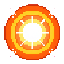
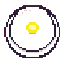
Royale PINBALL COBBLES: physical bumper hazard (#178)
Add scattered pinball bumpers to the cobbles stadium: solid round pegs
the ball bounces off elastically and that POP it away with extra speed,
pinball-style. Count and kick scale with the run difficulty (3 bumpers
easy / 4 med / 5 hard). Bumpers ignore player tokens and ghost phases
through. Includes a generated icon-bumper condition chip.

- 07-game-state: royBumpers + BUMPER_R state.
- 11-physics: royBumperArena / rollBumpers / royBumperStep (elastic
  bounce + speed pop) / drawBumpers (glowing cap with a hit flash);
  wired into stepPhysics.
- 12-draw: draw bumpers under the ball.
- 08-sound: rollBumpers in applyTactics + newMatch reset.
- 10-tournament: hazard:'bumper' on PINBALL COBBLES, blurb + BUMPERS chip.

Claude-Session: https://claude.ai/code/session_018F5EArhbDTNspRZAM7E7kB

diff --git a/src/game/11-physics.js b/src/game/11-physics.js
@@ -31,6 +31,13 @@
     function rollSerp(){ if(roySerpArena()){ if(roySerp.length!==royBushes.length){ roySerp=[]; for(var _s=0;_s<royBushes.length;_s++){ roySerp.push({bush:_s,strike:0,gx:0,gy:0,cd:0,armed:true}); } } } else if(roySerp.length){ roySerp=[]; } }
     function roySerpStep(){ if(!roySerp.length||!royBushes.length||!moving||scoring) return; if((typeof ghosting!=='undefined'&&ghosting)||(typeof TAC!=='undefined'&&TAC&&TAC.ghost&&typeof ghostUsed!=='undefined'&&!ghostUsed)) return; for(var _s=0;_s<roySerp.length;_s++){ var sp=roySerp[_s]; var b=royBushes[sp.bush]; if(!b) continue; var _dx=coin.x-b.x, _dy=coin.y-b.y, _d=Math.hypot(_dx,_dy); if(_d>SERP_STRIKE_R+COIN_R+8) sp.armed=true; /* ball left the bush — re-arm so it can strike again next time */ if(sp.cd>0||sp.armed===false) continue; /* just caught this ball: let it go, don't re-grab until it escapes */ var _spd=Math.hypot(coin.vx,coin.vy); if(_spd<0.8) continue; /* ignore a resting ball */ if(_d<SERP_STRIKE_R+COIN_R && _d>0.001){ sp.strike=1; sp.cd=45; sp.armed=false; sp.gx=coin.x; sp.gy=coin.y; coin.x=b.x+(Math.random()-0.5)*b.r*0.5; coin.y=b.y+(Math.random()-0.5)*b.r*0.5; coin.vx=0; coin.vy=0; b.rust=Math.min(1.6,1.2); try{ spawnSparks(b.x,b.y,'#6ab04a',12); }catch(e){} try{ if(!muted&&typeof sfxCurl==='function') sfxCurl(); }catch(e){} break; } } }
     function drawSerp(now){ if(!roySerp.length||!royBushes.length) return; var _NS=(typeof NS_LUNGE!=='undefined'&&NS_LUNGE.length)?NS_LUNGE:((typeof NS_SERP!=='undefined'&&NS_SERP.length)?NS_SERP:null); for(var _s=0;_s<roySerp.length;_s++){ var sp=roySerp[_s]; if(sp.strike>0){ sp.strike-=0.06; if(sp.strike<0) sp.strike=0; } if(sp.cd>0) sp.cd--; var b=royBushes[sp.bush]; if(!b) continue; var _d=(typeof coin!=='undefined'&&coin)?Math.hypot(coin.x-b.x,coin.y-b.y):999; var _mv=(typeof moving!=='undefined'&&moving&&typeof coin!=='undefined'&&coin), _spd2=_mv?Math.hypot(coin.vx,coin.vy):0, _appr=_mv&&_spd2>=0.8&&sp.armed!==false&&((coin.x-b.x)*coin.vx+(coin.y-b.y)*coin.vy)<0; var _al=(sp.cd>0&&sp.strike<0.02)||!_appr?0:Math.max(0,1-_d/SERP_ALERT_R); var _out=Math.max(_al,sp.strike); if(_out<0.02) continue; /* hidden inside the bush */ var _bx=(typeof coin!=='undefined'&&coin)?coin.x:b.x, _by=(typeof coin!=='undefined'&&coin)?coin.y:b.y; var _tx=(sp.strike>0.02)?sp.gx:_bx, _ty=(sp.strike>0.02)?sp.gy:_by; var _ang=Math.atan2(_ty-b.y,_tx-b.x); var _lun=Math.sin(Math.max(0,sp.strike)*Math.PI)*10; var _sc=0.78+_out*0.42; var _stg=(sp.strike>0.35)?3:(_out>0.62?2:(_out>0.3?1:0)); var _im=_NS?(_NS[_stg]||_NS[0]):null; ctx.save(); ctx.imageSmoothingEnabled=false; ctx.translate(b.x+Math.cos(_ang)*_lun, b.y+Math.sin(_ang)*_lun); ctx.rotate(_ang+Math.PI/2); if(_im&&_im.complete&&_im.naturalWidth){ var _w=17*_sc, _h=_w*(_im.naturalHeight/_im.naturalWidth); ctx.drawImage(_im, Math.round(-_w/2), Math.round(-_h*0.78), _w, _h); } else { ctx.fillStyle='#4a7a34'; ctx.beginPath(); ctx.arc(0,-6*_sc,6*_sc,0,6.283); ctx.fill(); } ctx.restore(); } }
+    // Pinball bumpers (cobbles): solid round pegs scattered on the pitch. The ball bounces off
+    // them elastically and gets a POP of extra speed, pinball-style. Count/kick scale with level.
+    // They ignore player tokens; ghost phases through.
+    function royBumperArena(){ return (typeof royaleArena!=='undefined'&&royaleArena&&royaleArena.hazard==='bumper'); }
+    function rollBumpers(){ if(royBumperArena()){ if(!royBumpers.length && !moving){ var _lvl=(typeof royaleLevel!=='undefined'?royaleLevel:'med'); var _n=(_lvl==='easy')?3:(_lvl==='med'?4:5); var _hues=['#e8443c','#f0a83c','#3ca6e8','#c04ce0','#5cd15c']; for(var _bb=0;_bb<_n;_bb++){ var bx,by,ok,tries=0,br=BUMPER_R+Math.random()*3; do{ ok=true; bx=WALL+26+Math.random()*(W-2*WALL-52); by=NET_DEPTH+GOAL_AREA_D+24+Math.random()*(H-2*(NET_DEPTH+GOAL_AREA_D)-48); for(var _bq=0;_bq<royBumpers.length;_bq++){ if(Math.hypot(bx-royBumpers[_bq].x,by-royBumpers[_bq].y)<(br+royBumpers[_bq].r)*2.0){ ok=false; break; } } if(coin&&Math.hypot(bx-coin.x,by-coin.y)<br+COIN_R+22) ok=false; if(ok&&typeof nails!=='undefined'&&nails){ for(var _bn=0;_bn<nails.length;_bn++){ if(Math.hypot(bx-nails[_bn].x,by-nails[_bn].y)<br+NAIL_R+16){ ok=false; break; } } } if(Math.abs(bx-W/2)<GOAL_W*0.5 && (by<NET_DEPTH+GOAL_AREA_D+30||by>H-NET_DEPTH-GOAL_AREA_D-30)) ok=false; tries++; }while(!ok&&tries<70); royBumpers.push({x:bx,y:by,r:br,flash:0,hue:_hues[_bb%_hues.length]}); } } } else if(royBumpers.length){ royBumpers=[]; } }
+    function royBumperStep(){ if(!royBumpers.length||!moving||scoring) return; if((typeof ghosting!=='undefined'&&ghosting)||(typeof TAC!=='undefined'&&TAC&&TAC.ghost&&typeof ghostUsed!=='undefined'&&!ghostUsed)) return; for(var _b=0;_b<royBumpers.length;_b++){ var p=royBumpers[_b]; var dx=coin.x-p.x, dy=coin.y-p.y, d=Math.hypot(dx,dy), R=p.r+COIN_R; if(d<R && d>0.001){ var nx=dx/d, ny=dy/d, vn=coin.vx*nx+coin.vy*ny; if(vn<0){ coin.vx-=2*vn*nx; coin.vy-=2*vn*ny; } coin.x=p.x+nx*R; coin.y=p.y+ny*R; var _lvl=(typeof royaleLevel!=='undefined'?royaleLevel:'med'); var _kick=(_lvl==='hard')?2.7:(_lvl==='med'?2.2:1.8); coin.vx+=nx*_kick; coin.vy+=ny*_kick; p.flash=1; try{ spawnSparks(p.x+nx*p.r,p.y+ny*p.r,'#ffe066',9); }catch(e){} try{ if(!muted){ if(typeof sfxWall==='function') sfxWall(); else if(typeof sfxCurl==='function') sfxCurl(); } }catch(e){} break; } } }
+    function drawBumpers(now){ if(!royBumpers.length) return; ctx.save(); for(var _b=0;_b<royBumpers.length;_b++){ var p=royBumpers[_b], r=p.r; if(p.flash>0){ p.flash-=0.08; if(p.flash<0)p.flash=0; } var _lit=p.flash; ctx.globalAlpha=0.28; ctx.fillStyle='#000'; ctx.beginPath(); ctx.ellipse(p.x,p.y+r*0.55,r*0.95,r*0.4,0,0,6.283); ctx.fill(); ctx.globalAlpha=1; ctx.fillStyle='#1c2028'; ctx.beginPath(); ctx.arc(p.x,p.y,r+1.5,0,6.283); ctx.fill(); ctx.fillStyle=p.hue; ctx.beginPath(); ctx.arc(p.x,p.y,r,0,6.283); ctx.fill(); ctx.globalAlpha=0.55; ctx.fillStyle='#ffffff'; ctx.beginPath(); ctx.arc(p.x-r*0.28,p.y-r*0.30,r*0.5,0,6.283); ctx.fill(); ctx.globalAlpha=1; ctx.strokeStyle='rgba(255,255,255,'+(0.55+_lit*0.45)+')'; ctx.lineWidth=2; ctx.beginPath(); ctx.arc(p.x,p.y,r*0.62,0,6.283); ctx.stroke(); ctx.fillStyle=_lit>0.02?'#ffffff':'#ffe9a8'; ctx.beginPath(); ctx.arc(p.x,p.y,r*0.34,0,6.283); ctx.fill(); if(_lit>0.02){ ctx.globalAlpha=_lit*0.8; ctx.strokeStyle='#fff6c0'; ctx.lineWidth=2+_lit*2; ctx.beginPath(); ctx.arc(p.x,p.y,r+(1-_lit)*11,0,6.283); ctx.stroke(); ctx.globalAlpha=1; } } ctx.restore(); }
     // Blizzard (hard ice): a crosswind that pulses calm->gust->calm; you time your flick for the calm window.
     function royBlizzard(){ return (typeof royaleArena!=='undefined'&&royaleArena&&royaleArena.floor==='ice'&&typeof royaleLevel!=='undefined'&&royaleLevel==='hard'); }
     // Foreground blizzard snow drawn ON TOP of the pitch so the sideways gust is clearly visible.
@@ -50,7 +57,7 @@
       // advance each sub-step by the CURRENT velocity, so a mid-frame wall/player
       // bounce immediately redirects the remaining sub-steps away instead of
       // re-hitting the wall (which used to drain sideways speed and glue the ball to it)
-      for(let i=0;i<subs&&moving;i++){ if(TAC.serpent&&!scoring){ var _ssp=Math.hypot(coin.vx,coin.vy); if(_ssp>0.5){ var _sang=serpentBase+serpentDir*SERPENT_SWING*Math.cos(serpentPhase); coin.vx=Math.cos(_sang)*_ssp; coin.vy=Math.sin(_sang)*_ssp; serpentPhase+=SERPENT_FREQ; } } if(TAC.wet&&!TAC.serpent&&!TAC.curve&&!scoring){ var _wwsp=Math.hypot(coin.vx,coin.vy); if(_wwsp>0.5){ var _wwang=wetBase+WET_WOBBLE*Math.cos(wetPhase); coin.vx=Math.cos(_wwang)*_wwsp; coin.vy=Math.sin(_wwang)*_wwsp; wetPhase+=WET_WFREQ; } } var _sInt=(TAC.serpent&&!scoring)?Math.atan2(coin.vy,coin.vx):0; coin.x+=coin.vx/subs; coin.y+=coin.vy/subs; var _wp=0,_wpa=0; if((TAC.wet||royGreasy())&&!scoring){ _wp=Math.hypot(coin.vx,coin.vy); _wpa=Math.atan2(coin.vy,coin.vx); } collideStep(); if(TAC.wet&&moving&&!scoring&&_wp>0.6){ var _na=Math.atan2(coin.vy,coin.vx), _dfa=Math.atan2(Math.sin(_na-_wpa),Math.cos(_na-_wpa)); if(Math.abs(_dfa)>0.25){ var _wspd=Math.hypot(coin.vx,coin.vy)||1, _woy=(current==='red')?(NET_DEPTH+COIN_R+1):(H-NET_DEPTH-COIN_R-1), _wgh=Math.atan2(_woy-coin.y,(W/2)-coin.x), _wch=Math.atan2(coin.vy,coin.vx), _wd=Math.atan2(Math.sin(_wgh-_wch),Math.cos(_wgh-_wch)), _wbi=_wch+_wd*0.55+(Math.random()-0.5)*1.4; coin.vx=Math.cos(_wbi)*_wspd; coin.vy=Math.sin(_wbi)*_wspd; if((current==='red'&&coin.vy>0.05)||(current==='blue'&&coin.vy<-0.05)){ coin.vy=-coin.vy; } wetBase=Math.atan2(coin.vy,coin.vx)-WET_WOBBLE*Math.cos(wetPhase); } } if(royGreasy()&&!TAC.wet&&moving&&!scoring&&_wp>0.6){ var _gna=Math.atan2(coin.vy,coin.vx), _gdf=Math.atan2(Math.sin(_gna-_wpa),Math.cos(_gna-_wpa)); if(Math.abs(_gdf)>0.25){ var _gsl=(Math.random()-0.5)*1.7,_gc=Math.cos(_gsl),_gs=Math.sin(_gsl),_gx=coin.vx*_gc-coin.vy*_gs,_gy=coin.vx*_gs+coin.vy*_gc; coin.vx=_gx; coin.vy=_gy; } } if(TAC.serpent&&!scoring&&moving){ var _sh=Math.atan2(coin.vy,coin.vx), _sdf=Math.atan2(Math.sin(_sh-_sInt),Math.cos(_sh-_sInt)); if(Math.abs(_sdf)>0.15){ serpentDir=-serpentDir; serpentBase=_sh-serpentDir*SERPENT_SWING*Math.cos(serpentPhase); } } if(!scoring) royPortalStep(); if(!scoring) royPuddleStep(); if(!scoring) royBushStep(); if(!scoring) royMudStep(); if(!scoring) roySerpStep(); if(!scoring){ try{ ecoStep(); }catch(e){} } if(!scoring&&trapHit()) break; }
+      for(let i=0;i<subs&&moving;i++){ if(TAC.serpent&&!scoring){ var _ssp=Math.hypot(coin.vx,coin.vy); if(_ssp>0.5){ var _sang=serpentBase+serpentDir*SERPENT_SWING*Math.cos(serpentPhase); coin.vx=Math.cos(_sang)*_ssp; coin.vy=Math.sin(_sang)*_ssp; serpentPhase+=SERPENT_FREQ; } } if(TAC.wet&&!TAC.serpent&&!TAC.curve&&!scoring){ var _wwsp=Math.hypot(coin.vx,coin.vy); if(_wwsp>0.5){ var _wwang=wetBase+WET_WOBBLE*Math.cos(wetPhase); coin.vx=Math.cos(_wwang)*_wwsp; coin.vy=Math.sin(_wwang)*_wwsp; wetPhase+=WET_WFREQ; } } var _sInt=(TAC.serpent&&!scoring)?Math.atan2(coin.vy,coin.vx):0; coin.x+=coin.vx/subs; coin.y+=coin.vy/subs; var _wp=0,_wpa=0; if((TAC.wet||royGreasy())&&!scoring){ _wp=Math.hypot(coin.vx,coin.vy); _wpa=Math.atan2(coin.vy,coin.vx); } collideStep(); if(TAC.wet&&moving&&!scoring&&_wp>0.6){ var _na=Math.atan2(coin.vy,coin.vx), _dfa=Math.atan2(Math.sin(_na-_wpa),Math.cos(_na-_wpa)); if(Math.abs(_dfa)>0.25){ var _wspd=Math.hypot(coin.vx,coin.vy)||1, _woy=(current==='red')?(NET_DEPTH+COIN_R+1):(H-NET_DEPTH-COIN_R-1), _wgh=Math.atan2(_woy-coin.y,(W/2)-coin.x), _wch=Math.atan2(coin.vy,coin.vx), _wd=Math.atan2(Math.sin(_wgh-_wch),Math.cos(_wgh-_wch)), _wbi=_wch+_wd*0.55+(Math.random()-0.5)*1.4; coin.vx=Math.cos(_wbi)*_wspd; coin.vy=Math.sin(_wbi)*_wspd; if((current==='red'&&coin.vy>0.05)||(current==='blue'&&coin.vy<-0.05)){ coin.vy=-coin.vy; } wetBase=Math.atan2(coin.vy,coin.vx)-WET_WOBBLE*Math.cos(wetPhase); } } if(royGreasy()&&!TAC.wet&&moving&&!scoring&&_wp>0.6){ var _gna=Math.atan2(coin.vy,coin.vx), _gdf=Math.atan2(Math.sin(_gna-_wpa),Math.cos(_gna-_wpa)); if(Math.abs(_gdf)>0.25){ var _gsl=(Math.random()-0.5)*1.7,_gc=Math.cos(_gsl),_gs=Math.sin(_gsl),_gx=coin.vx*_gc-coin.vy*_gs,_gy=coin.vx*_gs+coin.vy*_gc; coin.vx=_gx; coin.vy=_gy; } } if(TAC.serpent&&!scoring&&moving){ var _sh=Math.atan2(coin.vy,coin.vx), _sdf=Math.atan2(Math.sin(_sh-_sInt),Math.cos(_sh-_sInt)); if(Math.abs(_sdf)>0.15){ serpentDir=-serpentDir; serpentBase=_sh-serpentDir*SERPENT_SWING*Math.cos(serpentPhase); } } if(!scoring) royPortalStep(); if(!scoring) royPuddleStep(); if(!scoring) royBushStep(); if(!scoring) royMudStep(); if(!scoring) roySerpStep(); if(!scoring) royBumperStep(); if(!scoring){ try{ ecoStep(); }catch(e){} } if(!scoring&&trapHit()) break; }
       if(rportCD>0) rportCD--; if(royaleArena && royaleArena.cust==='wind' && moving && !scoring){ royWindT--; if(royWindT<=0){ royWindAng=Math.random()*6.2832; royWindMag=(Math.random()<0.35)?0:(0.14+Math.random()*0.22); royWindT=30+Math.floor(Math.random()*55); } if(royWindMag>0){ coin.vx+=Math.cos(royWindAng)*royWindMag; coin.vy+=Math.sin(royWindAng)*royWindMag; } } if(royBlizzard() && moving && !scoring){ var _gst=royGust()*ROY_GUST_MAX; coin.vx+=Math.cos(royGustDir)*_gst; coin.vy+=Math.sin(royGustDir)*_gst; } const f=scoring?NET_FRICTION:(FRICTION+TAC.glide+royFloorFric()); coin.vx*=f; coin.vy*=f; if(TAC.backspin&&moving&&!scoring){ if(!backspinPhase){ coin.vx*=0.92; coin.vy*=0.92; var _bfv=coin.vx*backspinFx+coin.vy*backspinFy; if(_bfv<0.4){ coin.vx=-backspinFx*3.0; coin.vy=-backspinFy*3.0; backspinPhase=1; if(TAC.serpent){ serpentBase+=Math.PI; serpentDir=-serpentDir; } try{ if(!muted) sfxCurl(); }catch(e){} } } else { coin.vx*=0.90; coin.vy*=0.90; } } if(bumpPending){ coin.vx*=1.5; coin.vy*=1.5; bumpPending=false; } var _tv=Math.hypot(coin.vx,coin.vy); if(_tv>26){ var _tk=26/_tv; coin.vx*=_tk; coin.vy*=_tk; } if(moving&&!scoring){ for(var _mk=0;_mk<2;_mk++){ var _mt=_mk?'blue':'red'; if(current===_mt) continue; if((sideAb[_mt]||[]).indexOf('magnet')<0) continue; var _mg=null; for(var _mi=0;_mi<nails.length;_mi++){ if(nails[_mi].team===_mt&&nails[_mi].goalie){ _mg=nails[_mi]; break; } } if(!_mg) continue; var _mdx=_mg.x-coin.x, _mdy=_mg.y-coin.y, _md=Math.hypot(_mdx,_mdy)||1, _mR=GOAL_W*0.95; if(_md<_mR && Math.hypot(coin.vx,coin.vy)>0.15){ var _f=1-_md/_mR; coin.vx+=(_mdx/_md)*(0.05+0.11*_f); coin.vy+=(_mdy/_md)*(0.05+0.11*_f); var _drag=0.985-0.06*_f; coin.vx*=_drag; coin.vy*=_drag; } } }
         if(TAC.boomerang&&moving&&!scoring){ var _bmid=H/2, _bfwd=(current==='red')?(coin.y<_bmid-6):(coin.y>_bmid+6), _bback=(current==='red')?(coin.y>_bmid+6):(coin.y<_bmid-6); if(_bfwd) _boomFwd=true; if(_boomFwd&&!_boomUsed&&_bback){ var _bsp=Math.hypot(coin.vx,coin.vy); if(_bsp>1.1){ var _bgy=(current==='red')?(NET_DEPTH+2):(H-NET_DEPTH-2), _bdx=W/2-coin.x, _bdy=_bgy-coin.y, _bd=Math.hypot(_bdx,_bdy)||1, _bs=Math.max(_bsp,4.4); coin.vx=(_bdx/_bd)*_bs; coin.vy=(_bdy/_bd)*_bs; _boomUsed=true; try{sfxCurl();}catch(e){} try{ spawnSparks(coin.x,coin.y,current,12); }catch(e){} try{ setStatus('BOOMERANG!'); }catch(e){} try{ abilitySlotPop(current,'boomerang',1.5); }catch(e){} try{ syncSlots(); }catch(e){} } } } if(TAC.guided&&moving&&!scoring&&steerHold!=null&&steerBudget>0){ var _sd=steerHold-coin.x; coin.vx+=Math.max(-0.18,Math.min(0.18,_sd*0.02)); steerBudget--; }
       if(scoring){

diff --git a/src/game/10-tournament.js b/src/game/10-tournament.js
@@ -14,9 +14,10 @@
       aiEnabled={red:false,blue:true}; mode='tournament'; winTarget=3;
       showBracket(); try{ tourCoinIntro(); }catch(e){}
     }
-    var ROYALE=null, royaleArena=null, royaleLevel='med'; var royWindT=0, royWindAng=0, royWindMag=0; var rtraps=[]; var rportCD=0; var ROYALE_ARENAS=[{name:'FROZEN ARENA',pitch:'ice',ab:[],floor:'ice',d:1,blurb:'Black ice - the whole rink is slippery, so the ball skates and is hard to settle.'},{name:'THE THICKET',pitch:'savanna',ab:[],hazard:'bush',d:2,blurb:'Scattered bushes grab the ball - roll through one and it slows hard, then kicks out on an unpredictable line.'},{name:'PINBALL COBBLES',pitch:'cobble',ab:['cannon','bumper','ricochet'],d:2,blurb:'Cannon power, bumper players, walls speed you up.'},{name:'SANDSTORM',pitch:'clay',ab:['glide'],d:3,cust:'wind',blurb:'Loose clay - wind gusts shove the ball around.'},{name:'NEON GRID',pitch:'neon',ab:[],d:3,cust:'portals',blurb:'5 portals (4 corners + centre) warp the ball to a random exit.'},{name:'BLACKOUT ALLEY',pitch:'street',ab:['fog','drunk'],d:4,blurb:'No aim guide and every shot wobbles off line.'},{name:'WEB WAREHOUSE',pitch:'wood',ab:[],d:4,cust:'traps',blurb:'Three spider webs guard each side - first ball to touch one is stopped dead.'},{name:'THE FORTRESS',pitch:'stone',ab:['anchor'],d:5,cust:'fortress',blurb:'Three walls barricade each goal and a heavy anchor guards the gap.'},{name:'THE FINAL',pitch:'grass',ab:[],d:5,blurb:'No gimmicks. Pure flick-soccer skill.'}]; function royaleRamp(i){ return i<3?'easy':(i<6?'med':'hard'); } function startRoyale(pi){ var pool=[]; for(var i=0;i<PRESETS.length;i++){ if(i!==pi && PRESETS[i].cat==='country') pool.push(i); } shuffle(pool); var opps=[]; for(var a=0;a<ROYALE_ARENAS.length;a++){ opps.push(pool.length?pool[a%pool.length]:pi); } ROYALE={i:0,player:pi,opps:opps}; mode='royale'; showRoyaleMap(); } function startRoyaleArena(){ if(!ROYALE) return; var ar=ROYALE_ARENAS[ROYALE.i]; royaleArena=ar; aiLevel=royaleRamp(ROYALE.i); teamKits.red=PRESETS[ROYALE.player]; teamKits.blue=PRESETS[ROYALE.opps[ROYALE.i]]; boardKey=ar.pitch; buildBoard(); buildCrowd(); mode='royale'; winTarget=3; matchLen=0; matchMs=0; timeUp=false; timerRunning=false; aiEnabled={red:false,blue:true}; pendingAb=(function(){ var _n=(royaleLevel==='easy')?1:((royaleLevel==='med')?2:3); var _a=ar.ab.slice(0,_n); return {red:_a.slice(),blue:_a.slice()}; })(); pre.style.display='none'; newMatch(); setStatus('STADIUM '+(ROYALE.i+1)+' - DRAG PLAYERS, THEN START'); try{ showVsIntro(); }catch(e){} } function royaleMatchEnd(){ if(!ROYALE) return; if(winner!=='red'){ showRoyaleResult(false); return; } ROYALE.i++; if(ROYALE.i>=ROYALE_ARENAS.length){ try{ spAchUnlock('royale'); if(royaleLevel==='hard') spAchUnlock('royalehard'); try{ var _rd=spAchGet(); var _rl=royaleLevel||'med'; if(_rd.royDiffs.indexOf(_rl)<0){ _rd.royDiffs.push(_rl); spAchSave(_rd); } if(_rd.royDiffs.indexOf('easy')>=0&&_rd.royDiffs.indexOf('med')>=0&&_rd.royDiffs.indexOf('hard')>=0) spAchUnlock('royaleall'); }catch(e){} }catch(e){} showRoyaleResult(true); return; } showRoyaleMap(true); } function royaleIntro(){ try{ var stage=el('ns_stage'); if(!stage||!royaleArena||!ROYALE) return; var old=el('ns_royint'); if(old) old.remove(); var ar=royaleArena; var ov=mk('div','position:absolute;left:0;top:0;right:0;bottom:0;z-index:58;display:flex;flex-direction:column;align-items:center;justify-content:center;background:rgba(6,5,12,0.82);text-align:center;padding:16px;box-sizing:border-box;'); ov.id='ns_royint'; ov.appendChild(mk('div',FS(8,'#9a8fb0')+'letter-spacing:2px;margin-bottom:6px;','STADIUM '+(ROYALE.i+1)+' / '+ROYALE_ARENAS.length)); ov.appendChild(mk('div',FS(15,'#c6e84a')+'letter-spacing:1px;text-shadow:0 3px 0 #1c1330;margin-bottom:8px;',ar.name)); ov.appendChild(mk('div',FS(8,'#f4e9c8')+'line-height:1.7;max-width:280px;',ar.blurb)); stage.appendChild(ov); try{ if(typeof haptic==='function') haptic(20); }catch(e){} setTimeout(function(){ ov.style.transition='opacity 0.4s'; ov.style.opacity='0'; setTimeout(function(){ if(ov.parentNode) ov.parentNode.removeChild(ov); },420); }, 2100); }catch(e){} } function showRoyaleResult(champ){ royaleArena=null; try{ if(champ){ setTimeout(function(){ try{sfxChampion();}catch(e){} },200); } else { sfxWhistle(); } }catch(e){} var reached=ROYALE?ROYALE.i:0; pre.innerHTML=''; pre.style.display='block'; pre.scrollTop=0; var pad=mk('div','padding:26px 16px;min-height:100%;box-sizing:border-box;display:flex;flex-direction:column;align-items:center;justify-content:center;gap:12px;text-align:center;'); pad.appendChild(mk('div','font-size:52px;line-height:1;', champ?'🏆':'💥')); pad.appendChild(mk('div',FS(16,champ?'#ffd84a':'#e05a4a')+'letter-spacing:1px;text-shadow:0 3px 0 #1c1330;', champ?'ROYALE CHAMPION':'ELIMINATED')); pad.appendChild(mk('div',FS(8,'#cdeacb')+'line-height:1.7;max-width:280px;', champ?('You conquered all '+ROYALE_ARENAS.length+' stadiums!'):('You fell at '+ROYALE_ARENAS[Math.min(reached,ROYALE_ARENAS.length-1)].name+' (stadium '+(Math.min(reached,ROYALE_ARENAS.length-1)+1)+' of '+ROYALE_ARENAS.length+').'))); var again=mk('button','width:100%;max-width:260px;'+FS(11,'#0b1a0e')+'background:#c6e84a;border:2px solid #e6ff7a;padding:12px;cursor:pointer;', champ?'PLAY AGAIN':'RETRY ROYALE'); again.onclick=function(){ ROYALE=null; try{spClearRun('royale');}catch(e){} mode='royale'; buildPre(); }; pad.appendChild(again); var home=mk('button','width:100%;max-width:260px;'+FS(9,'#8a7ea0')+'background:#14101e;border:2px solid #3a3050;padding:10px;cursor:pointer;','MENU'); home.onclick=function(){ ROYALE=null; try{spClearRun('royale');}catch(e){} mode='exhibition'; buildPre(); }; pad.appendChild(home); pre.appendChild(pad); } function royFlag(p,w,h){ var wrap=mk('div','flex:0 0 auto;line-height:0;border:1px solid rgba(0,0,0,0.5);border-radius:2px;overflow:hidden;'); var cv=document.createElement('canvas'); cv.width=w*2; cv.height=h*2; cv.style.cssText='width:'+w+'px;height:'+h+'px;display:block;image-rendering:pixelated;'; try{ var g=cv.getContext('2d'); g.scale(2,2); g.imageSmoothingEnabled=false; if(p&&p.kit) paintPattern(g,0,0,w,h,p.kit); }catch(e){} wrap.appendChild(cv); return wrap; } function royMapNode(ar,k){ var done=k<ROYALE.i, cur=k===ROYALE.i; var row=mk('div','display:flex;align-items:center;gap:8px;padding:6px 8px;margin:3px 0;border-radius:8px;border:2px solid '+(cur?'#c6e84a':(done?'#3a5a2a':'#2a2438'))+';background:'+(cur?'rgba(198,232,74,0.12)':(done?'rgba(60,110,50,0.10)':'#14101e'))+';'+((!cur&&!done)?'opacity:0.55;':'')); if(cur) row.id='ns_roycur'; var num=mk('div',FS(9,cur?'#0b0910':'#c9bce0')+'flex:0 0 auto;width:22px;height:22px;border-radius:50%;display:flex;align-items:center;justify-content:center;background:'+(cur?'#c6e84a':(done?'#3a5a2a':'#241a2e'))+';', done?'✓':String(k+1)); row.appendChild(num); var mid=mk('div','flex:1 1 auto;text-align:left;min-width:0;'); mid.appendChild(mk('div',FS(7,cur?'#f4e9c8':'#c9bce0')+'letter-spacing:0.4px;line-height:1.4;',ar.name+'  '+Array((ar.d||1)+1).join('◆'))); var opp=PRESETS[ROYALE.opps[k]]; var oppRow=mk('div','display:flex;align-items:center;gap:5px;margin-top:3px;'); oppRow.appendChild(royFlag(opp,18,12)); oppRow.appendChild(mk('span',FS(6,'#9a8fb0'),'vs '+(opp?opp.abbr:'?'))); mid.appendChild(oppRow); row.appendChild(mid); if(cur){ var you=mk('div','display:flex;flex-direction:column;align-items:center;gap:2px;flex:0 0 auto;'); you.appendChild(royFlag(PRESETS[ROYALE.player],22,15)); you.appendChild(mk('div',FS(5,'#c6e84a'),'YOU')); row.appendChild(you); } else if(done){ row.appendChild(mk('div',FS(7,'#7fd07f')+'flex:0 0 auto;','WON')); } return row; } function drawRoyMap(g,cw,ch,flagPos,zoom,camx,camy){ var NODES=[[0.19,0.84],[0.79,0.83],[0.22,0.66],[0.20,0.52],[0.50,0.49],[0.74,0.44],[0.26,0.32],[0.75,0.26],[0.47,0.15]]; g.clearRect(0,0,cw,ch); g.save(); if(zoom&&zoom>1.001){ var _hw=(cw/2)/zoom, _hh=(ch/2)/zoom; if(camx<_hw)camx=_hw; if(camx>cw-_hw)camx=cw-_hw; if(camy<_hh)camy=_hh; if(camy>ch-_hh)camy=ch-_hh; g.translate(cw/2,ch/2); g.scale(zoom,zoom); g.translate(-camx,-camy); } if(NS_ROYMAP&&NS_ROYMAP.complete&&NS_ROYMAP.naturalWidth){ g.drawImage(NS_ROYMAP,0,0,cw,ch); } else { g.fillStyle='#3a5a2e'; g.fillRect(0,0,cw,ch); } g.fillStyle='rgba(6,5,12,0.12)'; g.fillRect(0,0,cw,ch); function P(k){ return {x:NODES[k][0]*cw, y:NODES[k][1]*ch}; } (function(){ g.save(); g.setLineDash([5,5]); g.lineWidth=3; g.lineCap='round'; g.strokeStyle='rgba(255,238,196,0.9)'; g.beginPath(); for(var _r=0;_r<NODES.length;_r++){ var _p=P(_r); if(_r===0) g.moveTo(_p.x,_p.y); else g.lineTo(_p.x,_p.y); } g.stroke(); g.setLineDash([]); g.lineWidth=1; g.strokeStyle='rgba(90,60,20,0.5)'; g.stroke(); g.restore(); })(); var pk=PRESETS[ROYALE.player], opp=PRESETS[ROYALE.opps[ROYALE.i]]; for(var k=0;k<NODES.length;k++){ var p=P(k), done=k<ROYALE.i, cur=k===ROYALE.i, R=(cur?11:9); g.save(); g.globalAlpha=0.4; g.fillStyle='#000'; g.beginPath(); g.arc(p.x,p.y+1.5,R+1,0,6.283); g.fill(); g.globalAlpha=1; g.fillStyle=done?'#3a8a3a':(cur?'#c6e84a':'#241a2e'); g.beginPath(); g.arc(p.x,p.y,R,0,6.283); g.fill(); g.lineWidth=2; g.strokeStyle=cur?'#ffffff':(done?'#bfeeb0':'#5a4e72'); g.beginPath(); g.arc(p.x,p.y,R,0,6.283); g.stroke(); g.textAlign='center'; g.textBaseline='middle'; g.fillStyle=(cur||done)?'#0b0910':'#d8cfe8'; g.font="8px 'Press Start 2P', monospace"; g.fillText(done?'✓':String(k+1), p.x, p.y+0.5); try{ var _op=PRESETS[ROYALE.opps[k]]; if(_op&&_op.kit&&typeof paintPattern==='function'){ var _fw=14,_fh=9,_fx=p.x-_fw/2,_fy=p.y-R-_fh-3; g.globalAlpha=1; g.fillStyle='rgba(0,0,0,0.55)'; g.fillRect(_fx-1,_fy-1,_fw+2,_fh+2); paintPattern(g,_fx,_fy,_fw,_fh,_op.kit); g.lineWidth=0.7; g.strokeStyle='rgba(0,0,0,0.7)'; g.strokeRect(_fx,_fy,_fw,_fh); } }catch(e){} g.restore(); } var lo=Math.max(0,Math.floor(flagPos)), hi=Math.min(NODES.length-1,lo+1), fr=flagPos-lo, a=P(lo), b=P(hi), fx=a.x+(b.x-a.x)*fr, fy=a.y+(b.y-a.y)*fr; var _cy=fy-17, _R=10, _ir=7; function _cn(cx,pr){ g.save(); g.globalAlpha=0.35; g.fillStyle='#000'; g.beginPath(); g.arc(cx,_cy+2,_R+1,0,6.283); g.fill(); g.globalAlpha=1; g.fillStyle=COLORS.coin; g.beginPath(); g.arc(cx,_cy,_R,0,6.283); g.fill(); try{ g.save(); g.beginPath(); g.arc(cx,_cy,_ir,0,6.283); g.clip(); if(pr&&pr.kit) paintPattern(g,cx-_ir,_cy-_ir,_ir*2,_ir*2,pr.kit); g.restore(); }catch(e){} g.lineWidth=2; g.strokeStyle=COLORS.coinEdge; g.beginPath(); g.arc(cx,_cy,_R-1,0,6.283); g.stroke(); g.lineWidth=1; g.strokeStyle='rgba(0,0,0,0.45)'; g.beginPath(); g.arc(cx,_cy,_ir,0,6.283); g.stroke(); g.restore(); } _cn(fx-11,pk); _cn(fx+11,opp); g.save(); g.font='bold 7px sans-serif'; g.textAlign='center'; g.textBaseline='middle'; g.lineWidth=2.5; g.strokeStyle='#1a1330'; g.strokeText('VS',fx,_cy); g.fillStyle='#ffe066'; g.fillText('VS',fx,_cy); g.restore(); g.restore(); } function royArenaConds(ar){ if(!ar) return []; var G='assets/generated/', lvl=(typeof royaleLevel!=='undefined'?royaleLevel:'med'), c=[];
+    var ROYALE=null, royaleArena=null, royaleLevel='med'; var royWindT=0, royWindAng=0, royWindMag=0; var rtraps=[]; var rportCD=0; var ROYALE_ARENAS=[{name:'FROZEN ARENA',pitch:'ice',ab:[],floor:'ice',d:1,blurb:'Black ice - the whole rink is slippery, so the ball skates and is hard to settle.'},{name:'THE THICKET',pitch:'savanna',ab:[],hazard:'bush',d:2,blurb:'Scattered bushes grab the ball - roll through one and it slows hard, then kicks out on an unpredictable line.'},{name:'PINBALL COBBLES',pitch:'cobble',ab:['cannon','bumper','ricochet'],hazard:'bumper',d:2,blurb:'A pinball table - bumpers scattered on the pitch ping the ball off with extra speed.'},{name:'SANDSTORM',pitch:'clay',ab:['glide'],d:3,cust:'wind',blurb:'Loose clay - wind gusts shove the ball around.'},{name:'NEON GRID',pitch:'neon',ab:[],d:3,cust:'portals',blurb:'5 portals (4 corners + centre) warp the ball to a random exit.'},{name:'BLACKOUT ALLEY',pitch:'street',ab:['fog','drunk'],d:4,blurb:'No aim guide and every shot wobbles off line.'},{name:'WEB WAREHOUSE',pitch:'wood',ab:[],d:4,cust:'traps',blurb:'Three spider webs guard each side - first ball to touch one is stopped dead.'},{name:'THE FORTRESS',pitch:'stone',ab:['anchor'],d:5,cust:'fortress',blurb:'Three walls barricade each goal and a heavy anchor guards the gap.'},{name:'THE FINAL',pitch:'grass',ab:[],d:5,blurb:'No gimmicks. Pure flick-soccer skill.'}]; function royaleRamp(i){ return i<3?'easy':(i<6?'med':'hard'); } function startRoyale(pi){ var pool=[]; for(var i=0;i<PRESETS.length;i++){ if(i!==pi && PRESETS[i].cat==='country') pool.push(i); } shuffle(pool); var opps=[]; for(var a=0;a<ROYALE_ARENAS.length;a++){ opps.push(pool.length?pool[a%pool.length]:pi); } ROYALE={i:0,player:pi,opps:opps}; mode='royale'; showRoyaleMap(); } function startRoyaleArena(){ if(!ROYALE) return; var ar=ROYALE_ARENAS[ROYALE.i]; royaleArena=ar; aiLevel=royaleRamp(ROYALE.i); teamKits.red=PRESETS[ROYALE.player]; teamKits.blue=PRESETS[ROYALE.opps[ROYALE.i]]; boardKey=ar.pitch; buildBoard(); buildCrowd(); mode='royale'; winTarget=3; matchLen=0; matchMs=0; timeUp=false; timerRunning=false; aiEnabled={red:false,blue:true}; pendingAb=(function(){ var _n=(royaleLevel==='easy')?1:((royaleLevel==='med')?2:3); var _a=ar.ab.slice(0,_n); return {red:_a.slice(),blue:_a.slice()}; })(); pre.style.display='none'; newMatch(); setStatus('STADIUM '+(ROYALE.i+1)+' - DRAG PLAYERS, THEN START'); try{ showVsIntro(); }catch(e){} } function royaleMatchEnd(){ if(!ROYALE) return; if(winner!=='red'){ showRoyaleResult(false); return; } ROYALE.i++; if(ROYALE.i>=ROYALE_ARENAS.length){ try{ spAchUnlock('royale'); if(royaleLevel==='hard') spAchUnlock('royalehard'); try{ var _rd=spAchGet(); var _rl=royaleLevel||'med'; if(_rd.royDiffs.indexOf(_rl)<0){ _rd.royDiffs.push(_rl); spAchSave(_rd); } if(_rd.royDiffs.indexOf('easy')>=0&&_rd.royDiffs.indexOf('med')>=0&&_rd.royDiffs.indexOf('hard')>=0) spAchUnlock('royaleall'); }catch(e){} }catch(e){} showRoyaleResult(true); return; } showRoyaleMap(true); } function royaleIntro(){ try{ var stage=el('ns_stage'); if(!stage||!royaleArena||!ROYALE) return; var old=el('ns_royint'); if(old) old.remove(); var ar=royaleArena; var ov=mk('div','position:absolute;left:0;top:0;right:0;bottom:0;z-index:58;display:flex;flex-direction:column;align-items:center;justify-content:center;background:rgba(6,5,12,0.82);text-align:center;padding:16px;box-sizing:border-box;'); ov.id='ns_royint'; ov.appendChild(mk('div',FS(8,'#9a8fb0')+'letter-spacing:2px;margin-bottom:6px;','STADIUM '+(ROYALE.i+1)+' / '+ROYALE_ARENAS.length)); ov.appendChild(mk('div',FS(15,'#c6e84a')+'letter-spacing:1px;text-shadow:0 3px 0 #1c1330;margin-bottom:8px;',ar.name)); ov.appendChild(mk('div',FS(8,'#f4e9c8')+'line-height:1.7;max-width:280px;',ar.blurb)); stage.appendChild(ov); try{ if(typeof haptic==='function') haptic(20); }catch(e){} setTimeout(function(){ ov.style.transition='opacity 0.4s'; ov.style.opacity='0'; setTimeout(function(){ if(ov.parentNode) ov.parentNode.removeChild(ov); },420); }, 2100); }catch(e){} } function showRoyaleResult(champ){ royaleArena=null; try{ if(champ){ setTimeout(function(){ try{sfxChampion();}catch(e){} },200); } else { sfxWhistle(); } }catch(e){} var reached=ROYALE?ROYALE.i:0; pre.innerHTML=''; pre.style.display='block'; pre.scrollTop=0; var pad=mk('div','padding:26px 16px;min-height:100%;box-sizing:border-box;display:flex;flex-direction:column;align-items:center;justify-content:center;gap:12px;text-align:center;'); pad.appendChild(mk('div','font-size:52px;line-height:1;', champ?'🏆':'💥')); pad.appendChild(mk('div',FS(16,champ?'#ffd84a':'#e05a4a')+'letter-spacing:1px;text-shadow:0 3px 0 #1c1330;', champ?'ROYALE CHAMPION':'ELIMINATED')); pad.appendChild(mk('div',FS(8,'#cdeacb')+'line-height:1.7;max-width:280px;', champ?('You conquered all '+ROYALE_ARENAS.length+' stadiums!'):('You fell at '+ROYALE_ARENAS[Math.min(reached,ROYALE_ARENAS.length-1)].name+' (stadium '+(Math.min(reached,ROYALE_ARENAS.length-1)+1)+' of '+ROYALE_ARENAS.length+').'))); var again=mk('button','width:100%;max-width:260px;'+FS(11,'#0b1a0e')+'background:#c6e84a;border:2px solid #e6ff7a;padding:12px;cursor:pointer;', champ?'PLAY AGAIN':'RETRY ROYALE'); again.onclick=function(){ ROYALE=null; try{spClearRun('royale');}catch(e){} mode='royale'; buildPre(); }; pad.appendChild(again); var home=mk('button','width:100%;max-width:260px;'+FS(9,'#8a7ea0')+'background:#14101e;border:2px solid #3a3050;padding:10px;cursor:pointer;','MENU'); home.onclick=function(){ ROYALE=null; try{spClearRun('royale');}catch(e){} mode='exhibition'; buildPre(); }; pad.appendChild(home); pre.appendChild(pad); } function royFlag(p,w,h){ var wrap=mk('div','flex:0 0 auto;line-height:0;border:1px solid rgba(0,0,0,0.5);border-radius:2px;overflow:hidden;'); var cv=document.createElement('canvas'); cv.width=w*2; cv.height=h*2; cv.style.cssText='width:'+w+'px;height:'+h+'px;display:block;image-rendering:pixelated;'; try{ var g=cv.getContext('2d'); g.scale(2,2); g.imageSmoothingEnabled=false; if(p&&p.kit) paintPattern(g,0,0,w,h,p.kit); }catch(e){} wrap.appendChild(cv); return wrap; } function royMapNode(ar,k){ var done=k<ROYALE.i, cur=k===ROYALE.i; var row=mk('div','display:flex;align-items:center;gap:8px;padding:6px 8px;margin:3px 0;border-radius:8px;border:2px solid '+(cur?'#c6e84a':(done?'#3a5a2a':'#2a2438'))+';background:'+(cur?'rgba(198,232,74,0.12)':(done?'rgba(60,110,50,0.10)':'#14101e'))+';'+((!cur&&!done)?'opacity:0.55;':'')); if(cur) row.id='ns_roycur'; var num=mk('div',FS(9,cur?'#0b0910':'#c9bce0')+'flex:0 0 auto;width:22px;height:22px;border-radius:50%;display:flex;align-items:center;justify-content:center;background:'+(cur?'#c6e84a':(done?'#3a5a2a':'#241a2e'))+';', done?'✓':String(k+1)); row.appendChild(num); var mid=mk('div','flex:1 1 auto;text-align:left;min-width:0;'); mid.appendChild(mk('div',FS(7,cur?'#f4e9c8':'#c9bce0')+'letter-spacing:0.4px;line-height:1.4;',ar.name+'  '+Array((ar.d||1)+1).join('◆'))); var opp=PRESETS[ROYALE.opps[k]]; var oppRow=mk('div','display:flex;align-items:center;gap:5px;margin-top:3px;'); oppRow.appendChild(royFlag(opp,18,12)); oppRow.appendChild(mk('span',FS(6,'#9a8fb0'),'vs '+(opp?opp.abbr:'?'))); mid.appendChild(oppRow); row.appendChild(mid); if(cur){ var you=mk('div','display:flex;flex-direction:column;align-items:center;gap:2px;flex:0 0 auto;'); you.appendChild(royFlag(PRESETS[ROYALE.player],22,15)); you.appendChild(mk('div',FS(5,'#c6e84a'),'YOU')); row.appendChild(you); } else if(done){ row.appendChild(mk('div',FS(7,'#7fd07f')+'flex:0 0 auto;','WON')); } return row; } function drawRoyMap(g,cw,ch,flagPos,zoom,camx,camy){ var NODES=[[0.19,0.84],[0.79,0.83],[0.22,0.66],[0.20,0.52],[0.50,0.49],[0.74,0.44],[0.26,0.32],[0.75,0.26],[0.47,0.15]]; g.clearRect(0,0,cw,ch); g.save(); if(zoom&&zoom>1.001){ var _hw=(cw/2)/zoom, _hh=(ch/2)/zoom; if(camx<_hw)camx=_hw; if(camx>cw-_hw)camx=cw-_hw; if(camy<_hh)camy=_hh; if(camy>ch-_hh)camy=ch-_hh; g.translate(cw/2,ch/2); g.scale(zoom,zoom); g.translate(-camx,-camy); } if(NS_ROYMAP&&NS_ROYMAP.complete&&NS_ROYMAP.naturalWidth){ g.drawImage(NS_ROYMAP,0,0,cw,ch); } else { g.fillStyle='#3a5a2e'; g.fillRect(0,0,cw,ch); } g.fillStyle='rgba(6,5,12,0.12)'; g.fillRect(0,0,cw,ch); function P(k){ return {x:NODES[k][0]*cw, y:NODES[k][1]*ch}; } (function(){ g.save(); g.setLineDash([5,5]); g.lineWidth=3; g.lineCap='round'; g.strokeStyle='rgba(255,238,196,0.9)'; g.beginPath(); for(var _r=0;_r<NODES.length;_r++){ var _p=P(_r); if(_r===0) g.moveTo(_p.x,_p.y); else g.lineTo(_p.x,_p.y); } g.stroke(); g.setLineDash([]); g.lineWidth=1; g.strokeStyle='rgba(90,60,20,0.5)'; g.stroke(); g.restore(); })(); var pk=PRESETS[ROYALE.player], opp=PRESETS[ROYALE.opps[ROYALE.i]]; for(var k=0;k<NODES.length;k++){ var p=P(k), done=k<ROYALE.i, cur=k===ROYALE.i, R=(cur?11:9); g.save(); g.globalAlpha=0.4; g.fillStyle='#000'; g.beginPath(); g.arc(p.x,p.y+1.5,R+1,0,6.283); g.fill(); g.globalAlpha=1; g.fillStyle=done?'#3a8a3a':(cur?'#c6e84a':'#241a2e'); g.beginPath(); g.arc(p.x,p.y,R,0,6.283); g.fill(); g.lineWidth=2; g.strokeStyle=cur?'#ffffff':(done?'#bfeeb0':'#5a4e72'); g.beginPath(); g.arc(p.x,p.y,R,0,6.283); g.stroke(); g.textAlign='center'; g.textBaseline='middle'; g.fillStyle=(cur||done)?'#0b0910':'#d8cfe8'; g.font="8px 'Press Start 2P', monospace"; g.fillText(done?'✓':String(k+1), p.x, p.y+0.5); try{ var _op=PRESETS[ROYALE.opps[k]]; if(_op&&_op.kit&&typeof paintPattern==='function'){ var _fw=14,_fh=9,_fx=p.x-_fw/2,_fy=p.y-R-_fh-3; g.globalAlpha=1; g.fillStyle='rgba(0,0,0,0.55)'; g.fillRect(_fx-1,_fy-1,_fw+2,_fh+2); paintPattern(g,_fx,_fy,_fw,_fh,_op.kit); g.lineWidth=0.7; g.strokeStyle='rgba(0,0,0,0.7)'; g.strokeRect(_fx,_fy,_fw,_fh); } }catch(e){} g.restore(); } var lo=Math.max(0,Math.floor(flagPos)), hi=Math.min(NODES.length-1,lo+1), fr=flagPos-lo, a=P(lo), b=P(hi), fx=a.x+(b.x-a.x)*fr, fy=a.y+(b.y-a.y)*fr; var _cy=fy-17, _R=10, _ir=7; function _cn(cx,pr){ g.save(); g.globalAlpha=0.35; g.fillStyle='#000'; g.beginPath(); g.arc(cx,_cy+2,_R+1,0,6.283); g.fill(); g.globalAlpha=1; g.fillStyle=COLORS.coin; g.beginPath(); g.arc(cx,_cy,_R,0,6.283); g.fill(); try{ g.save(); g.beginPath(); g.arc(cx,_cy,_ir,0,6.283); g.clip(); if(pr&&pr.kit) paintPattern(g,cx-_ir,_cy-_ir,_ir*2,_ir*2,pr.kit); g.restore(); }catch(e){} g.lineWidth=2; g.strokeStyle=COLORS.coinEdge; g.beginPath(); g.arc(cx,_cy,_R-1,0,6.283); g.stroke(); g.lineWidth=1; g.strokeStyle='rgba(0,0,0,0.45)'; g.beginPath(); g.arc(cx,_cy,_ir,0,6.283); g.stroke(); g.restore(); } _cn(fx-11,pk); _cn(fx+11,opp); g.save(); g.font='bold 7px sans-serif'; g.textAlign='center'; g.textBaseline='middle'; g.lineWidth=2.5; g.strokeStyle='#1a1330'; g.strokeText('VS',fx,_cy); g.fillStyle='#ffe066'; g.fillText('VS',fx,_cy); g.restore(); g.restore(); } function royArenaConds(ar){ if(!ar) return []; var G='assets/generated/', lvl=(typeof royaleLevel!=='undefined'?royaleLevel:'med'), c=[];
       if(ar.floor==='ice'){ c.push([G+'icon-glide.png','🧊','SLIPPERY']); if(lvl==='med'||lvl==='hard'){ c.push([G+'icon-wet.png','💦','GREASY']); c.push([G+'icon-puddle.png','🌀','PUDDLES']); } if(lvl==='hard'){ c.push([G+'icon-blizzard.png','❄️','BLIZZARD']); } }
       if(ar.hazard==='bush'){ c.push([G+'icon-bush.png','🌳','BUSHES']); if(lvl==='med'||lvl==='hard') c.push([G+'icon-mud.png','🟤','MUD LAKE']); if(lvl==='hard') c.push([G+'icon-snake.png','🐍','HIDDEN SNAKES']); }
+      if(ar.hazard==='bumper'){ var _bn=(lvl==='easy')?'BUMPERS':(lvl==='med'?'MORE BUMPERS':'MAX BUMPERS'); c.push([G+'icon-bumper.png','⚪',_bn]); }
       if(ar.cust==='wind') c.push([G+'icon-wind.png','🌬️','WIND']);
       if(ar.cust==='portals') c.push([G+'icon-portal.png','🌀','PORTALS']);
       if(ar.cust==='traps') c.push([G+'icon-trap.png','🕸️','WEBS']);

diff --git a/src/game/12-draw.js b/src/game/12-draw.js
@@ -154,6 +154,9 @@
         if(phase==='setup'){ const r=goalAreaRect(n.team); const bad=(n===dragNail)&&inRect(n.x,n.y,r)&&countInGoalArea(n.team,n)>=1; ctx.beginPath(); ctx.arc(n.x,n.y,NAIL_R+2,0,Math.PI*2); ctx.strokeStyle=bad?'rgba(214,75,58,0.9)':'rgba(255,255,255,0.5)'; ctx.lineWidth=1; ctx.stroke(); }
       }
 
+      // pinball bumpers sit on the pitch under the ball (the ball bounces off their edge)
+      try{drawBumpers(now);}catch(e){}
+
       // ball (with shot trail)
       if(phase==='play'){
         for(const t of shotTrail){ const a=Math.max(0,t.life/t.max)*((t.curl||t.wet)?0.32:0.22); ctx.beginPath(); ctx.arc(t.x,t.y,COIN_R,0,Math.PI*2); ctx.fillStyle=t.wet?'rgba(64,150,255,'+a+')':(t.curl?'rgba(120,220,255,'+a+')':'rgba(244,233,200,'+a+')'); ctx.fill(); if(t.wet){ ctx.fillStyle='rgba(170,215,255,'+Math.min(1,a*1.4)+')'; ctx.beginPath(); ctx.arc(t.x-2,t.y-1.5,1.4,0,Math.PI*2); ctx.arc(t.x+2.3,t.y+1.6,1.1,0,Math.PI*2); ctx.fill(); } }

diff --git a/src/game/07-game-state.js b/src/game/07-game-state.js
@@ -1,7 +1,7 @@
     // ================= GAME STATE =================
     let coin,nails,current,score,aiming,aimStart,aimNow,moving,winner,hitOwn;
     let scoring=false,scoringTeam=null,netBulge=0,netBulgeX=0,netHold=0,netVel=0,scoreFrames=0,parkedTeam=null,celebrated=false;
-    let phase='setup',dragNail=null; let steerHold=null,steerBudget=0,slowPhase=0; let wallHP={red:null,blue:null},WALL_MAX=3,wallCD=0,ghostUsed=false,ghosting=false,portalUsed=false,PORTAL_R=COIN_R,trapUsed={red:false,blue:false},trapPos={red:null,blue:null},TRAP_R=COIN_R,trapFx=null,TRAP_FX_DUR=42,shieldUsed={red:false,blue:false},shieldFx=null,SHIELD_FX_DUR=34,ricochetUsed=false,serpentPhase=0,serpentBase=0,serpentDir=1,SERPENT_SWING=0.55,SERPENT_FREQ=0.22,wetBase=0,wetPhase=0,WET_WOBBLE=0.16,WET_WFREQ=0.17,DRUNK_SPREAD=0.5,swapStolen={red:null,blue:null},swapSpent={red:{},blue:{}},flickCount=0,bumpPending=false,FLICK_CAP=3,STAMINA=[1,0.75,0.5,0.25],royPuddles=[],_puddleIn=-1,PUDDLE_R=15,royBushes=[],_bushIn=-1,BUSH_R=11,royMud=[],MUD_R=14,roySerp=[],SERP_STRIKE_R=22,SERP_ALERT_R=42,royGustDir=0,royGustPhase=0,ROY_GUST_MAX=0.22,ROY_GUST_FREQ=0.011,roySnow=[]; let bikeUsed=false,strategistUsed={red:false,blue:false},strategistArm=null,pmDrag=false,medicUsed={red:false,blue:false},cleansed={red:[],blue:[]},comebackDone={red:false,blue:false},varUsed={red:false,blue:false},_trioN=0,_trioDone=false,rewindUsed={red:false,blue:false},_rwSnap=null,_boomFwd=false,_boomUsed=false,clearUsed={red:false,blue:false},_clrSt={red:null,blue:null},chipUsed=false,_clrBlocked=false,abOff={red:[],blue:[]},drillUsed=false,_drillDisp=[],backspinFx=0,backspinFy=0,backspinPhase=0;
+    let phase='setup',dragNail=null; let steerHold=null,steerBudget=0,slowPhase=0; let wallHP={red:null,blue:null},WALL_MAX=3,wallCD=0,ghostUsed=false,ghosting=false,portalUsed=false,PORTAL_R=COIN_R,trapUsed={red:false,blue:false},trapPos={red:null,blue:null},TRAP_R=COIN_R,trapFx=null,TRAP_FX_DUR=42,shieldUsed={red:false,blue:false},shieldFx=null,SHIELD_FX_DUR=34,ricochetUsed=false,serpentPhase=0,serpentBase=0,serpentDir=1,SERPENT_SWING=0.55,SERPENT_FREQ=0.22,wetBase=0,wetPhase=0,WET_WOBBLE=0.16,WET_WFREQ=0.17,DRUNK_SPREAD=0.5,swapStolen={red:null,blue:null},swapSpent={red:{},blue:{}},flickCount=0,bumpPending=false,FLICK_CAP=3,STAMINA=[1,0.75,0.5,0.25],royPuddles=[],_puddleIn=-1,PUDDLE_R=15,royBushes=[],_bushIn=-1,BUSH_R=11,royMud=[],MUD_R=14,roySerp=[],SERP_STRIKE_R=22,SERP_ALERT_R=42,royBumpers=[],BUMPER_R=13,royGustDir=0,royGustPhase=0,ROY_GUST_MAX=0.22,ROY_GUST_FREQ=0.011,roySnow=[]; let bikeUsed=false,strategistUsed={red:false,blue:false},strategistArm=null,pmDrag=false,medicUsed={red:false,blue:false},cleansed={red:[],blue:[]},comebackDone={red:false,blue:false},varUsed={red:false,blue:false},_trioN=0,_trioDone=false,rewindUsed={red:false,blue:false},_rwSnap=null,_boomFwd=false,_boomUsed=false,clearUsed={red:false,blue:false},_clrSt={red:null,blue:null},chipUsed=false,_clrBlocked=false,abOff={red:[],blue:[]},drillUsed=false,_drillDisp=[],backspinFx=0,backspinFy=0,backspinPhase=0;
     const GOAL_AREA_D=34;
     let useBall=false;
     // AI + modes